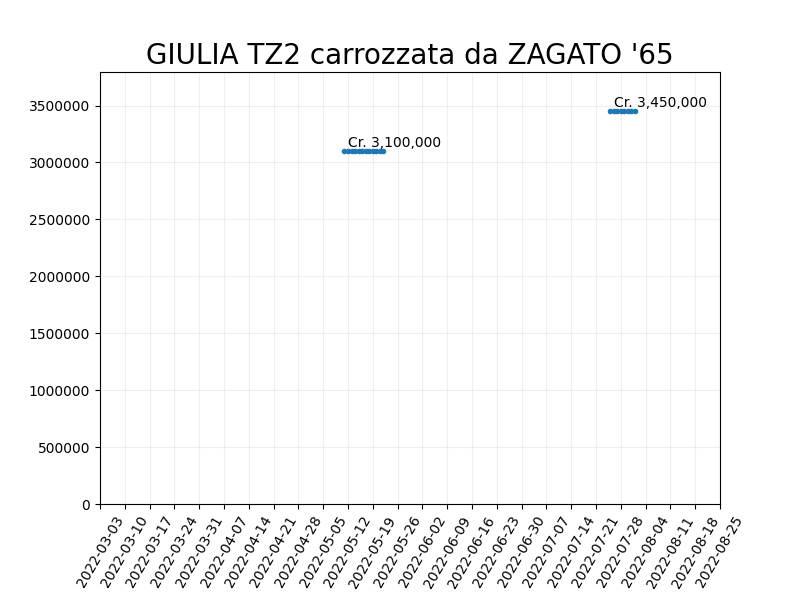
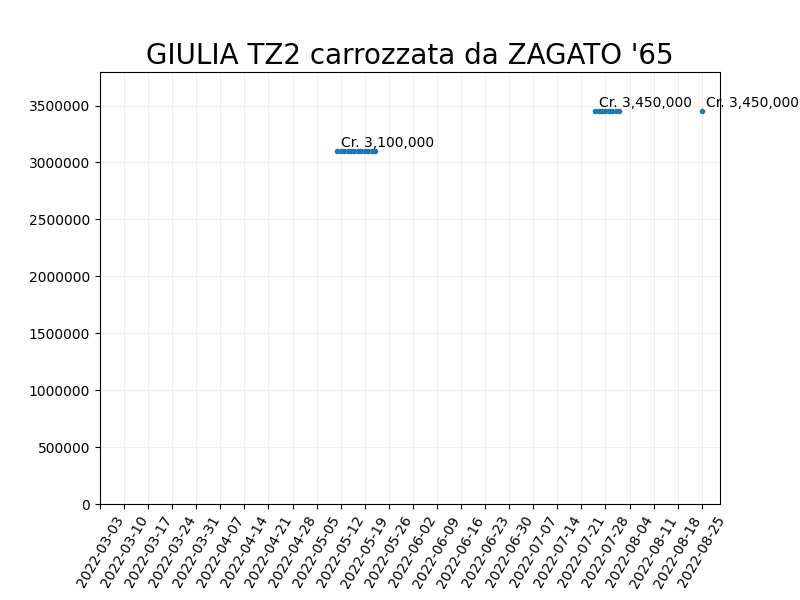
Update from https://github.com/ddm999/gt7info/commit/7b19a04ebef6d6c23fbf29f2f7ad541fd70b8fc4

Changed region(s): [[0.1562, 0.84, 0.9375, 0.99], [0.7188, 0.15, 1.0, 0.21], [0.4062, 0.21, 0.5625, 0.27]]

diff --git a/index.html b/index.html
@@ -15,7 +15,7 @@
   <script type="application/ld+json">
     {"@context":"https://schema.org","@type":"WebSite","headline":"GT7 Online Dealerships & Info","name":"ddm999.github.io","url":"https://ddm999.github.io/gt7info/"}
   </script>
-  <link rel="stylesheet" href="style.css?nocache=20220825222157">
+  <link rel="stylesheet" href="style.css?nocache=20220825222748">
 </head>
 <body>
   <div class="wrapper">
@@ -322,68 +322,76 @@
       Estimates may occasionally be wrong as Polyphony can technically do whatever they want.<br>
       <span class="car-container"><p class="lcar carnew">
         <img id="icon" src="img/legend-hagerty-icon.svg"/>
+        <span id="manufacturer">De Tomaso</span>
+        <span id="name">Mangusta (Christian Dior)</span>
+        <span id="credits"><span id="cr">Cr.</span> 500,000</span>
+        <span id="new">NEW</span>
+        <span id="days-estimate">No Estimate Available</span>
+      </p><p class="lcar carnew">
+        <img id="icon" src="img/legend-hagerty-icon.svg"/>
         <span id="manufacturer">Ferrari</span>
         <span id="name"><a href="cars/prices_1551.png" target="_blank">330 P4 '67</a></span>
         <span id="credits"><span id="cr">Cr.</span> 9,000,000</span>
         <span id="new">NEW</span>
-        <span id="days-estimate">Available For 8 More Days</span>
+        <span id="days-estimate">Available For 5 More Days</span>
       </p><p class="lcar">
         <img id="icon" src="img/legend-hagerty-icon.svg"/>
         <span id="manufacturer">Ferrari</span>
         <span id="name"><a href="cars/prices_2017.png" target="_blank">GTO '84</a></span>
         <span id="credits"><span id="cr">Cr.</span> 3,100,000</span>
-        <span id="days-estimate">Available For 6 More Days</span>
+        <span id="days-estimate">Available For 8 More Days</span>
       </p><p class="lcar carnew">
         <img id="icon" src="img/legend-hagerty-icon.svg"/>
         <span id="manufacturer">Lamborghini</span>
         <span id="name"><a href="cars/prices_1582.png" target="_blank">Miura P400 Bertone Prototype '67</a></span>
         <span id="credits"><span id="cr">Cr.</span> 3,400,000</span>
         <span id="new">NEW</span>
-        <span id="days-estimate">Available For 9 More Days</span>
+        <span id="days-estimate">Available For 6 More Days</span>
       </p><p class="lcar">
         <img id="icon" src="img/legend-hagerty-icon.svg"/>
         <span id="manufacturer">Porsche</span>
         <span id="name"><a href="cars/prices_3365.png" target="_blank">356 A/1500 GS GT Carrera Speedster '56</a></span>
         <span id="credits"><span id="cr">Cr.</span> 1,500,000</span>
-        <span id="days-estimate">Available For 8 More Days</span>
-      </p><p class="lcar carsold">
+        <span id="days-estimate">Available For 10 More Days</span>
+      </p><p class="lcar carnew">
         <img id="icon" src="img/legend-hagerty-icon.svg"/>
-        <span id="manufacturer">Ford</span>
-        <span id="name"><a href="cars/prices_3444.png" target="_blank">1932 Ford Roadster Hot Rod</a></span>
-        <span id="credits"><span id="cr">Cr.</span> 450,000</span>
-        <span id="soldout">SOLD OUT</span>
+        <span id="manufacturer">Alfa Romeo</span>
+        <span id="name"><a href="cars/prices_1645.png" target="_blank">GIULIA TZ2 carrozzata da ZAGATO '65</a></span>
+        <span id="credits"><span id="cr">Cr.</span> 3,450,000</span>
+        <span id="new">NEW</span>
+        <span id="days-estimate">Available For 10 More Days</span>
       </p><p class="lcar carlimited">
         <img id="icon" src="img/legend-hagerty-icon.svg"/>
         <span id="manufacturer">De Tomaso</span>
         <span id="name"><a href="cars/prices_3437.png" target="_blank">Mangusta '69</a></span>
         <span id="credits"><span id="cr">Cr.</span> 245,000</span>
         <span id="limited">Limited Stock</span>
-        <span id="days-remaining">Last Day Available</span>
+        <span id="days-estimate">Available For 3 More Days</span>
       </p><p class="lcar">
         <img id="icon" src="img/legend-hagerty-icon.svg"/>
         <span id="manufacturer">Ford</span>
         <span id="name"><a href="cars/prices_1935.png" target="_blank">GT40 Mark I '66</a></span>
         <span id="credits"><span id="cr">Cr.</span> 6,250,000</span>
-        <span id="days-estimate">Available For 5 More Days</span>
-      </p><p class="lcar carsold">
-        <img id="icon" src="img/legend-hagerty-icon.svg"/>
-        <span id="manufacturer">Mercedes-Benz</span>
-        <span id="name"><a href="cars/prices_998.png" target="_blank">Sauber Mercedes C9 '89</a></span>
-        <span id="credits"><span id="cr">Cr.</span> 3,000,000</span>
-        <span id="soldout">SOLD OUT</span>
+        <span id="days-estimate">Available For 11 More Days</span>
       </p><p class="lcar carnew">
+        <img id="icon" src="img/legend-hagerty-icon.svg"/>
+        <span id="manufacturer">Nissan</span>
+        <span id="name"><a href="cars/prices_485.png" target="_blank">GT-R GT500 '99</a></span>
+        <span id="credits"><span id="cr">Cr.</span> 2,700,000</span>
+        <span id="new">NEW</span>
+        <span id="days-estimate">Available For 9 More Days</span>
+      </p><p class="lcar">
         <img id="icon" src="img/legend-hagerty-icon.svg"/>
         <span id="manufacturer">Mercedes-Benz</span>
         <span id="name"><a href="cars/prices_387.png" target="_blank">300 SL Coupe '54</a></span>
         <span id="credits"><span id="cr">Cr.</span> 1,400,000</span>
-        <span id="new">NEW</span>
-        <span id="days-estimate">Available For 10 More Days</span>
+        <span id="days-estimate">Available For 7 More Days</span>
       </p><p class="lcar">
         <img id="icon" src="img/legend-hagerty-icon.svg"/>
         <span id="manufacturer">Nissan</span>
         <span id="name"><a href="cars/prices_837.png" target="_blank">Skyline Hard Top 2000GT-R (KPGC10) '70</a></span>
         <span id="credits"><span id="cr">Cr.</span> 140,000</span>
-        <span id="days-estimate">Available For 7 More Days</span>
+        <span id="days-estimate">Available For 11 More Days</span>
       </p></span>
       <span id="back-to-top"><a href="#navigation">Back to top</a></span>
     </section>
